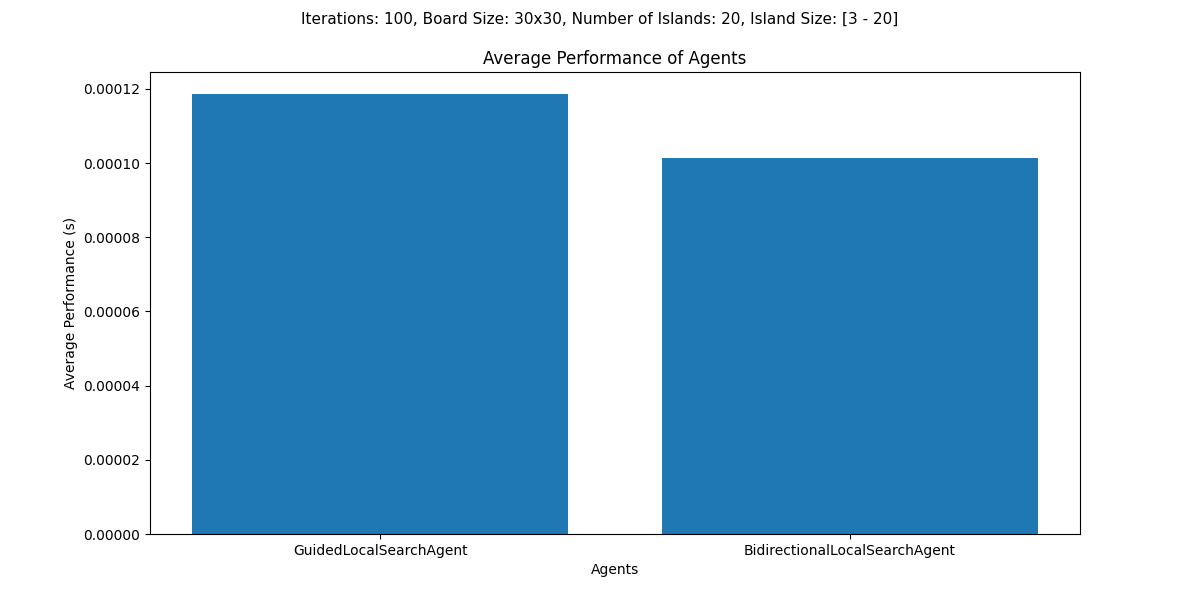
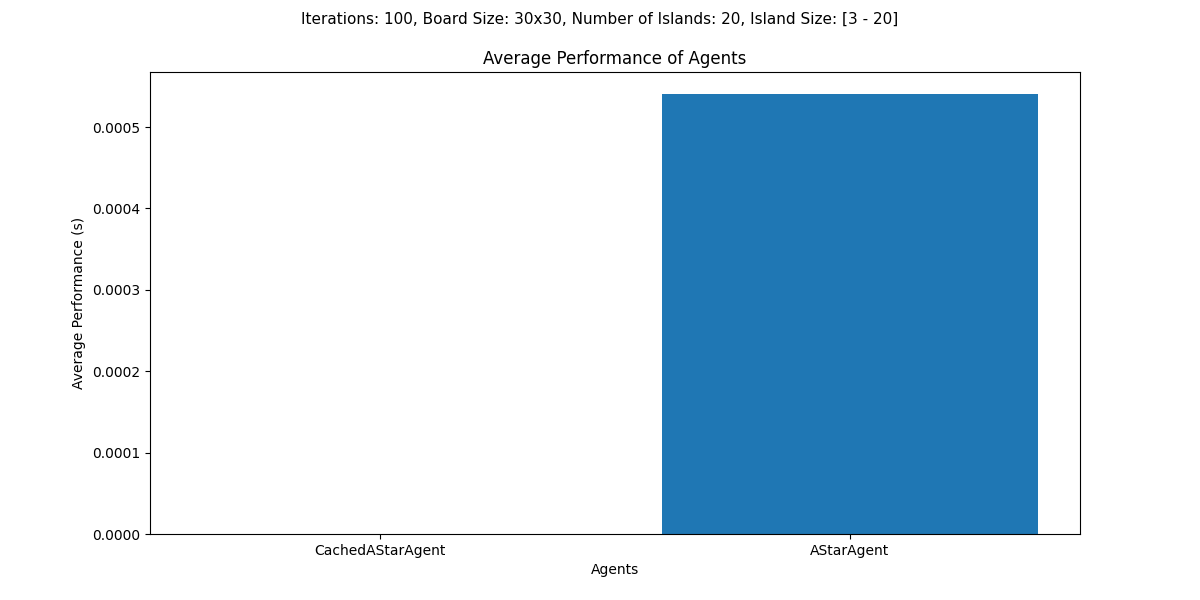
Working on cache

diff --git a/optimized_agents.py b/optimized_agents.py
@@ -1,5 +1,5 @@
 from agents import *
-
+from functools import lru_cache
 
 class MemoryLookupLocalSearchAgent(Agent):
     '''
@@ -8,10 +8,10 @@ class MemoryLookupLocalSearchAgent(Agent):
     results in a hash table. This way we only need to run the heuristic for
     a given coordinate once.
 
-    There are definetley memory issues with this approach.
+    There are definetley memory issues with this approach on larger datasets.
     '''
-    def __init__(self, color, i, j, goal_i, goal_j):
-        super().__init__(color, i, j, goal_i, goal_j)
+    def __init__(self, color, i, j, goal_i, goal_j, board):
+        super().__init__(color, i, j, goal_i, goal_j, board)
         self.heuristics = {}
         self.penalties = {}
 
@@ -95,10 +95,30 @@ class MemoryLookupLocalSearchAgent(Agent):
         self.i, self.j = coord
         board[self.i][self.j] = self
 
+class CachedAStarAgent(AStarAgent):
+    def __init__(self, color, i, j, goal_i, goal_j, board):
+        super().__init__(color, i, j, goal_i, goal_j, board)
+
+    @lru_cache(maxsize=256)
+    def heuristic(self, i=None, j=None):
+        '''
+        Give the straightline distance between current position and goal, ignoring obstacles
+        '''
+        if i == None:
+            i = self.i
+        if j == None:
+            j = self.j
+        self.heuristic_calls += 1
+        # computing a square root is slow, make a heuristic that doesn't use it?
+        return ((self.goal_i - i) ** 2 + (self.goal_j - j) ** 2) ** (1/2)
+
 
 class BidirectionalLocalSearchAgent(GuidedLocalSearchAgent):
-    def __init__(self, color, i, j, goal_i, goal_j):
-        super().__init__(color, i, j, goal_i, goal_j)
+    '''
+    Perform a local search where both agents navigate to one another
+    '''
+    def __init__(self, color, i, j, goal_i, goal_j, board):
+        super().__init__(color, i, j, goal_i, goal_j, board)
         self.goal_penalties = {}
 
     def name(self):
@@ -214,4 +234,132 @@ class BidirectionalLocalSearchAgent(GuidedLocalSearchAgent):
               
         heuristic_val = ((self.i - i) ** 2 + (self.j - j) ** 2) ** (1/2)
         return (heuristic_val) * (penalty + 1)
-# bidirectional local search?
+
+
+class SetLookupAStarAgent(AStarAgent):
+    '''
+    Change data structure to a set. O(1) lookup and doesn't require as much space as a matrix
+    '''
+    def __init__(self, color, i, j, goal_i, goal_j, board):
+        super().__init__(color, i, j, goal_i, goal_j, board)
+        self.searched = set() # use a set here for faster lookup
+
+    def name(self):
+        return 'SetLookupAStarAgent'
+    
+    def move(self, board):
+        '''
+        Moves the given agent on the board
+        '''
+        if self.is_goal():
+            return
+        
+        moves = self.open_moves(board)
+        self.frontier += moves
+        self.sort_frontier()
+        
+        if not self.frontier:
+            self.no_solution = True
+            return
+        coord = self.frontier.pop(0)
+
+        board[self.i][self.j] = 0
+        self.i, self.j = coord
+        board[self.i][self.j] = self
+        self.searched.add((self.i, self.j))
+
+
+class MatrixLookupAStarAgent(AStarAgent):
+    '''
+    Change the data structure to a matrix
+    '''
+    def __init__(self, color, i, j, goal_i, goal_j, board):
+        super().__init__(color, i, j, goal_i, goal_j, board)
+        rows = cols = len(self.board)
+        self.searched = []
+        for i in range(rows):
+            inner = []
+            for j in range(cols):
+                inner.append(False)
+            self.searched.append(inner)
+
+    def name(self):
+        return 'MatrixLookupAStarAgent'
+    
+    def move(self, board):
+        '''
+        Moves the given agent on the board
+        '''
+        if self.is_goal():
+            return
+        
+        moves = self.open_moves(board)
+        self.frontier += moves
+        self.sort_frontier()
+        
+        if not self.frontier:
+            self.no_solution = True
+            return
+        coord = self.frontier.pop(0)
+
+        board[self.i][self.j] = 0
+        self.searched[self.i][self.j] = True
+        self.i, self.j = coord
+        board[self.i][self.j] = self
+
+    def open_moves(self, board):
+        '''
+        Returns a list of open moves for the given board
+        '''
+        options = [
+            (self.i, self.j),
+            (self.i + 1, self.j),
+            (self.i + 1, self.j + 1),
+            (self.i + 1, self.j - 1),
+            (self.i, self.j + 1),
+            (self.i, self.j - 1),
+            (self.i - 1, self.j + 1),
+            (self.i - 1, self.j),
+            (self.i - 1, self.j - 1),
+        ]
+
+        out = []
+        n = len(board)
+        for coord in options:
+            i, j = coord
+            is_valid = 0 <= i < n and 0 <= j < n
+            check_searhced = is_valid and not self.searched[coord[0]][coord[1]] and coord not in self.frontier
+            if is_valid and check_searhced and (not board[i][j] or board[i][j] == 1):
+                out.append(coord)
+        return out
+
+
+
+def newHeuristic(self, i=None, j=None):
+        '''
+        Give the straightline distance between current position and goal.
+
+        In this case, we add 1 move for every block that is found
+        on the diagonal.
+        '''
+        if i == None:
+            i = self.i
+        if j == None:
+            j = self.j
+        self.heuristic_calls += 1
+        # computing a square root is slow, make a heuristic that doesn't use it?
+        step_i = (self.goal_i - i) / 10
+        step_j = (self.goal_j - j) / 10
+
+        value = ((self.goal_i - i) ** 2 + (self.goal_j - j) ** 2) ** (1/2)
+        for step in range(10):
+            (adjust_i, adjust_j) = (int(i + step_i * step), int(j + step_j * step))
+            if (self.board[adjust_i][adjust_j] == 2):
+                value += 1
+        return value
+
+class HeuristicAdjustmentAStarAgent(AStarAgent):
+    def heuristic(self, i=None, j=None):
+        value = newHeuristic(self, i, j)
+        print(value)
+        return value

diff --git a/agents.py b/agents.py
@@ -8,17 +8,18 @@ class Agent():
     open_moves() and move() are not defined,
     that is left to the child classes.
     '''
-    def __init__(self, color, i, j, goal_i, goal_j):
+    def __init__(self, color, i, j, goal_i, goal_j, board):
         self.color = color
         self.i = i
         self.j = j
         self.goal_i = goal_i
         self.goal_j = goal_j
         self.frontier = []
-        self.searched = set() # use a set here for faster lookup
+        self.searched = []
         self.start_heuristic = 0
         self.no_solution = False
         self.heuristic_calls = 0
+        self.board = board
 
     def name(self):
         '''
@@ -111,7 +112,7 @@ class AStarAgent(Agent):
         board[self.i][self.j] = 0
         self.i, self.j = coord
         board[self.i][self.j] = self
-        self.searched.add((self.i, self.j))
+        self.searched.append((self.i, self.j))
 
 
 class BidirectionalSearchAgent(Agent):
@@ -122,7 +123,7 @@ class BidirectionalSearchAgent(Agent):
     we can search towards each other instead of one direction
     at a time.
     '''    
-    def __init__(self, color, i, j, goal_i, goal_j):
+    def __init__(self, color, i, j, goal_i, goal_j, board):
         '''
         In this new init function, we define 'self.iterations',
         which will increase for every local search iteration where
@@ -131,9 +132,9 @@ class BidirectionalSearchAgent(Agent):
         The value 'self.iterations' reflects the radius of the surrouding
         spaces we will search for a move after running into a local max
         '''
-        super().__init__(color, i, j, goal_i, goal_j)
+        super().__init__(color, i, j, goal_i, goal_j, board)
         self.goal_frontier = []
-        self.goal_searched = set()
+        self.goal_searched = []
     
     def name(self):
         return 'BidirectionalSearchAgent'
@@ -216,8 +217,8 @@ class BidirectionalSearchAgent(Agent):
         self.goal_i, self.goal_j = goal_coord
         board[self.goal_i][self.goal_j] = self
 
-        self.searched.add((self.i, self.j))
-        self.goal_searched.add((self.goal_i, self.goal_j))
+        self.searched.append((self.i, self.j))
+        self.goal_searched.append((self.goal_i, self.goal_j))
 
 
     def sort_goal_frontier(self):
@@ -297,12 +298,11 @@ class SteepestAscentAgent(Agent):
         board[self.i][self.j] = 0
         self.i, self.j = coord
         board[self.i][self.j] = self
-        self.searched.add((self.i, self.j))
 
 
 
 class DelayedImprovementAgent(Agent):
-    def __init__(self, color, i, j, goal_i, goal_j):
+    def __init__(self, color, i, j, goal_i, goal_j, board):
         '''
         In this new init function, we define 'self.iterations',
         which will increase for every local search iteration where
@@ -311,7 +311,7 @@ class DelayedImprovementAgent(Agent):
         The value 'self.iterations' reflects the radius of the surrouding
         spaces we will search for a move after running into a local max
         '''
-        super().__init__(color, i, j, goal_i, goal_j)
+        super().__init__(color, i, j, goal_i, goal_j, board)
         self.iterations = 2
         self.iter_cap = 100
 
@@ -418,7 +418,7 @@ class DelayedImprovementAgent(Agent):
 
 
 class SimulatedAnnealingAgent(Agent):
-    def __init__(self, color, i, j, goal_i, goal_j):
+    def __init__(self, color, i, j, goal_i, goal_j, board):
         '''
         In this new init function, we define 'self.iterations',
         which will increase for every local search iteration where
@@ -427,7 +427,7 @@ class SimulatedAnnealingAgent(Agent):
         The value 'self.iterations' reflects the radius of the surrounding
         spaces we will search for a move after running into a local max
         '''
-        super().__init__(color, i, j, goal_i, goal_j)
+        super().__init__(color, i, j, goal_i, goal_j, board)
         self.iterations = 1
         self.temp = 1000
         self.repeats = 0
@@ -516,8 +516,8 @@ class SimulatedAnnealingAgent(Agent):
 
 
 class GuidedLocalSearchAgent(Agent):
-    def __init__(self, color, i, j, goal_i, goal_j):
-        super().__init__(color, i, j, goal_i, goal_j)
+    def __init__(self, color, i, j, goal_i, goal_j, board):
+        super().__init__(color, i, j, goal_i, goal_j, board)
         self.penalties = {}
 
     def name(self):

diff --git a/testing.py b/testing.py
@@ -18,7 +18,9 @@ def performanceLinechart(agents, iterations, board, fname, data=None):
 
     for agent in bar_labels:
         plt.plot(data[agent], label=agent)
-        max_set = max(data[agent])
+        max_set = 0
+        if data[agent]:
+            max_set = max(data[agent])
         if (max_set > max_y):
             max_y = max_set
 
@@ -167,11 +169,15 @@ if __name__ == '__main__':
     b2 = Board(rows=100, cols=100, num_islands=200, min_island_size=10, max_island_size=30)
     b3 = Board(rows=1000, cols=1000, num_islands=2000, min_island_size=10, max_island_size=30)
     # agents = [AStarAgent, BidirectionalSearchAgent, GuidedLocalSearchAgent, SteepestAscentAgent]
-    agents = [GuidedLocalSearchAgent, BidirectionalLocalSearchAgent]
+    # agents = [GuidedLocalSearchAgent, BidirectionalLocalSearchAgent]
+    # agents = [AStarAgent, HeuristicAdjustmentAStarAgent]
+    # agents = [MemoryLookupLocalSearchAgent, GuidedLocalSearchAgent]
+    agents = [CachedAStarAgent, AStarAgent]
 
-    iterations = 1000
+    iterations = 100
     board = b
     data = board.test(iterations, agents)
+    print(data)
 
     averagePerformanceBarChart(agents, iterations, board, 'average_performance.png', data)
     performanceLinechart(agents, iterations, board, 'performance.png', data)

diff --git a/board.py b/board.py
@@ -92,7 +92,7 @@ class Board():
             i, j = agent_coord
             goal_i, goal_j = goal_coord            
 
-            agent = agent_class(make_random_color(), i, j, goal_i, goal_j)
+            agent = agent_class(make_random_color(), i, j, goal_i, goal_j, self.board)
             self.agents.append(agent)
             self.board[i][j] = agent
             self.board[goal_i][goal_j] = 1
@@ -104,7 +104,7 @@ class Board():
 
         Assume that the position is valid when parameters are passed in.
         '''
-        agent = agent_class(make_random_color(), i, j, goal_i, goal_j)
+        agent = agent_class(make_random_color(), i, j, goal_i, goal_j, self.board)
         self.board[i][j] = agent
         self.board[goal_i][goal_j] = 1
         return agent

diff --git a/main.py b/main.py
@@ -1,6 +1,6 @@
 from board import Board
 from agents import *
-from optimized_agents import MemoryLookupLocalSearchAgent, BidirectionalLocalSearchAgent
+from optimized_agents import *
 
 
 # Testing board
@@ -28,7 +28,7 @@ def main(agent=Agent):
 # main()
 # main(GuidedLocalSearchAgent)
 # main(DelayedImprovementAgent)
-main(BidirectionalLocalSearchAgent)
+main(CachedAStarAgent)
 
 # b = Board()
 # print(b.test(100, AStarAgent, BidirectionalSearchAgent, SimulatedAnnealingAgent))
